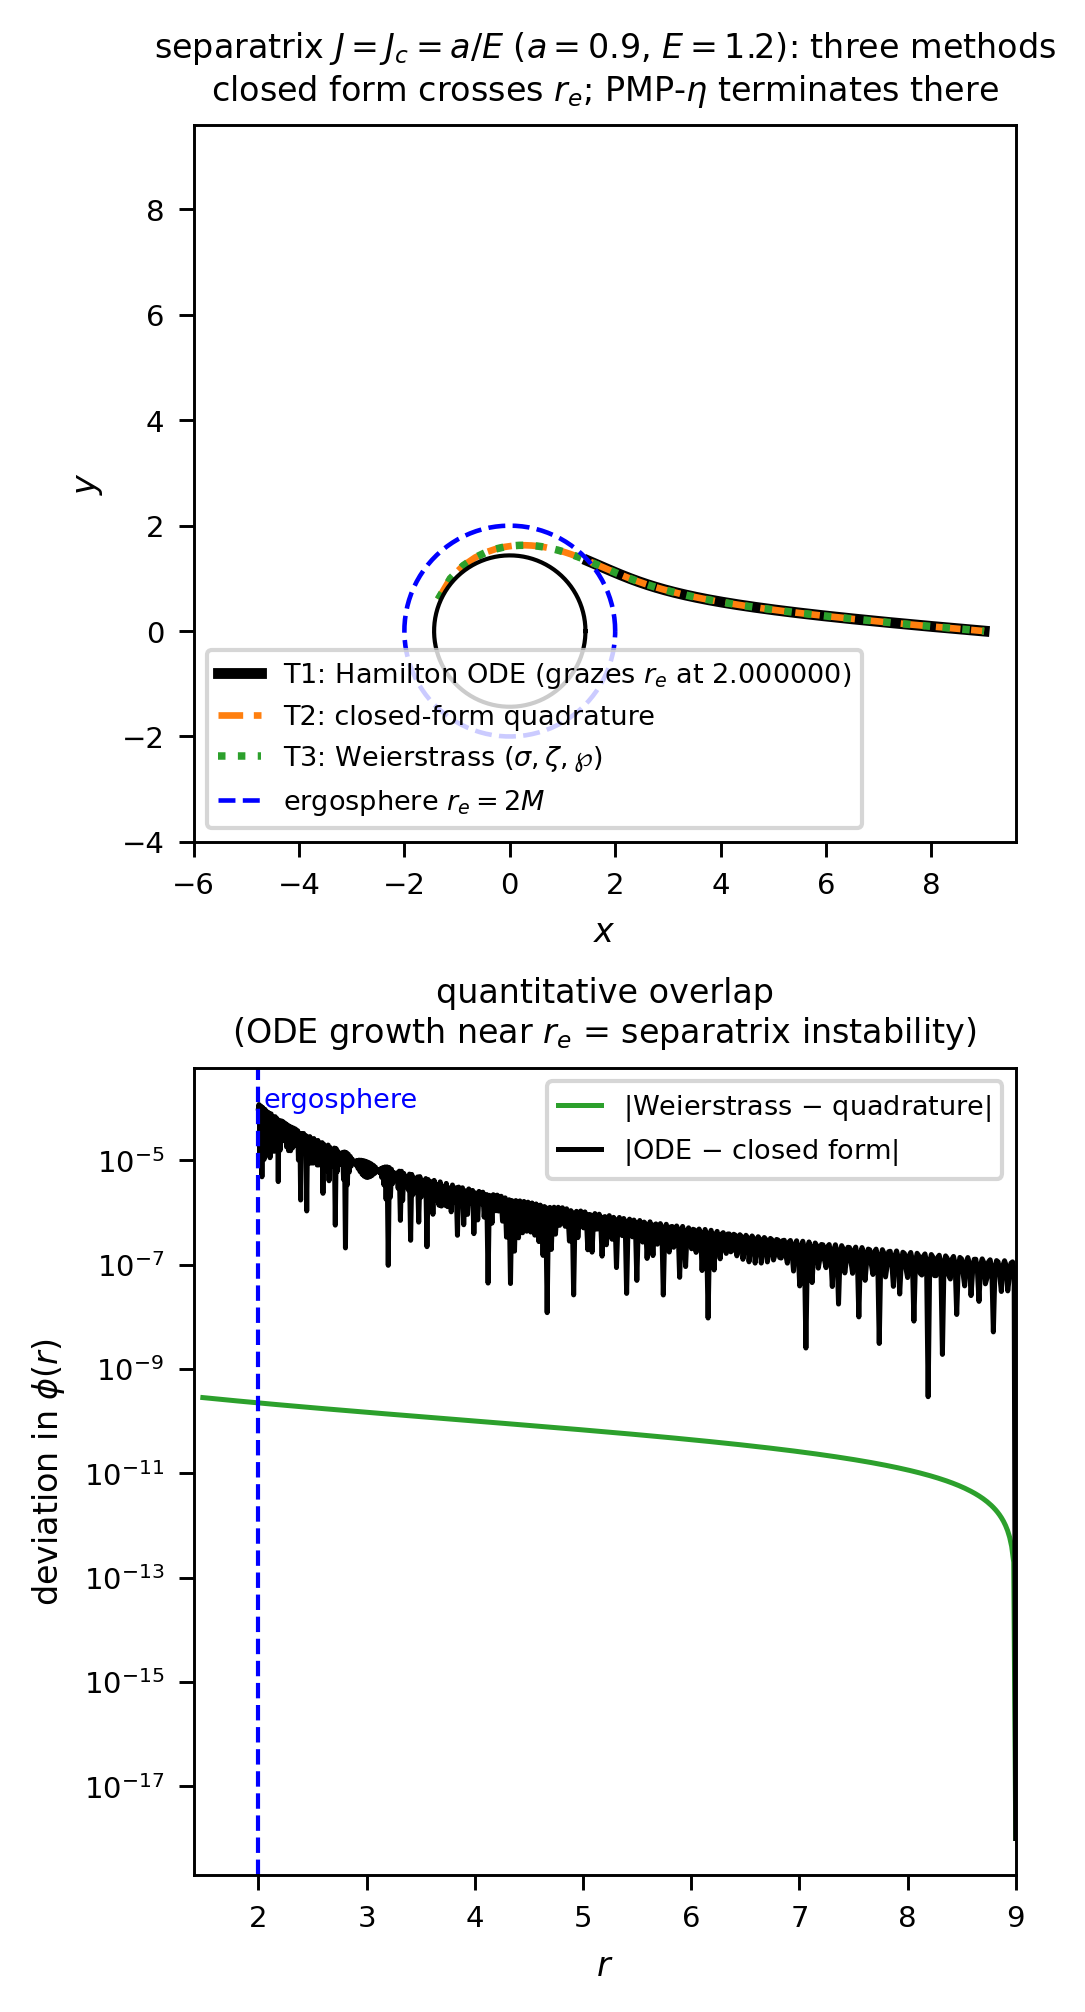
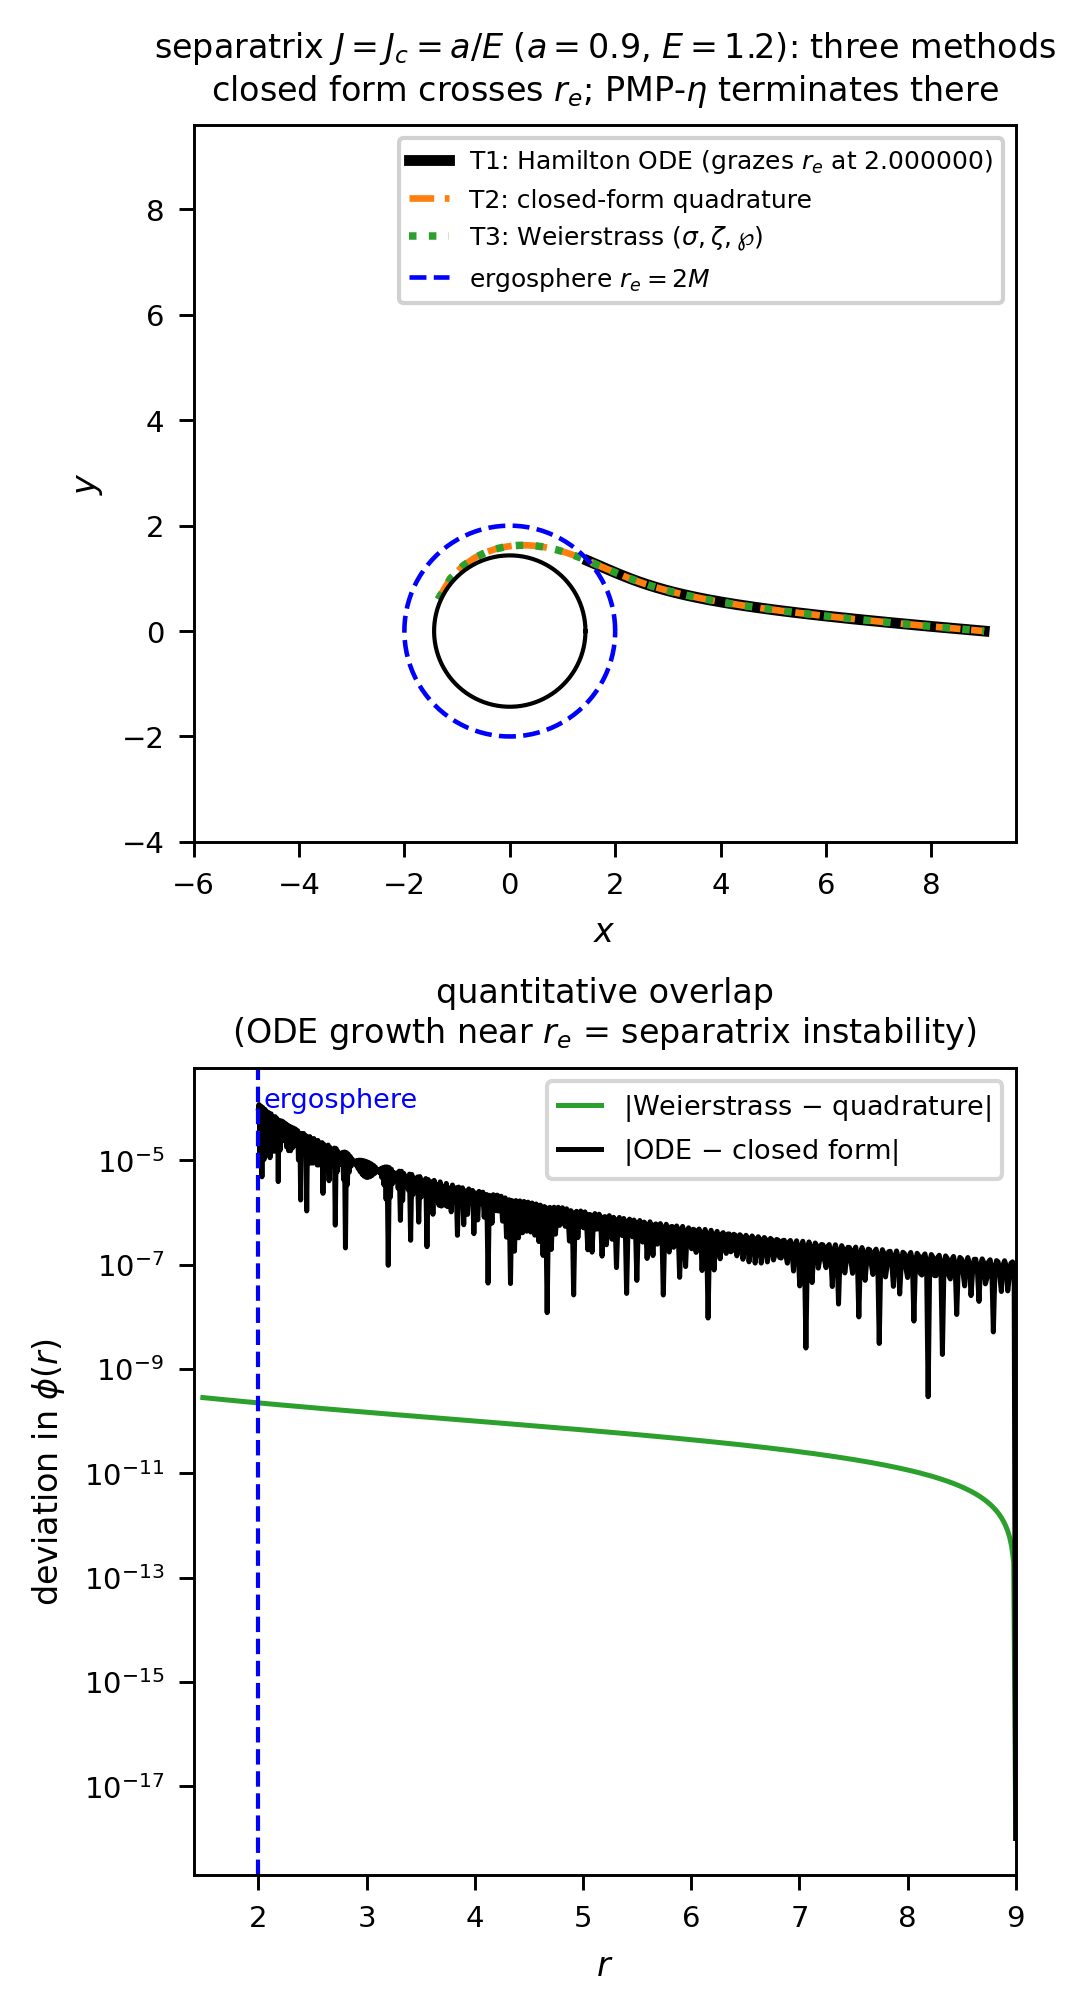
Bump to v0.0.1: layout and readability refinements
- Fig. 9 (separatrix, top panel): move legend from lower-left (over the
  black hole) to upper-right; black hole and trajectories now sit in the
  lower half, legend in the upper half.
- Fix column overflows: split the FLRW degeneracy equation and the
  Weierstrass appendix equations (g2/g3, alpha/lambda, phi(r)) across
  lines; make the data-availability repo name and URL breakable.
- Clarify the uniformizing variable z(r) (Abel map of the turning
  quartic) in the appendix separatrix formula.
- Add \clearpage so appendix figures no longer float into the
  bibliography.
- Add VERSION file.

Changed region(s): [[0.1825, 0.3082, 0.7908, 0.4314], [0.365, 0.0616, 0.9429, 0.1541], [0.7908, 0.339, 0.8212, 0.4006]]

diff --git a/paper/main.tex b/paper/main.tex
@@ -231,8 +231,10 @@ the monotone reparametrization $t(\eta)=\int a\,\dd\eta$ maps critical points to
 critical points, and the $\tau$-cost differs from the $\eta$-cost only by the
 same $\eta$-dependent weight. Hence
 \begin{equation}
-    \arg\min T_t=\arg\min T_\tau=\arg\min T_\eta
-    =\text{comoving straight line}.
+\begin{split}
+    \arg\min T_t&=\arg\min T_\tau=\arg\min T_\eta\\
+    &=\text{comoving straight line}.
+\end{split}
     \label{eq:flrwdegen}
 \end{equation}
 The $t/\tau$ splitting that drives every later result is a gravitational-%
@@ -721,24 +723,32 @@ $J=\Jc$ the doranTau factorization $\Delta-\Jc^2 w=f(r^2+c^2)$, $c=a/E$, makes t
 turning quartic $Q_4=r\big((E^2-1)r+2M\big)(r^2+c^2)$, and the factor $r^2+c^2$
 divides $Q_4$ so that only the horizon poles survive. Writing
 \begin{gather}
-    A=\frac{Ma^2}{2E^2},\qquad B=\frac{a^2(E^2-1)}{12E^2},\qquad
+    A=\frac{Ma^2}{2E^2},\qquad B=\frac{a^2(E^2-1)}{12E^2},\notag\\
     g_2=\frac{a^4(E^2-1)^2}{12E^4}-\frac{a^2M^2}{E^2},\notag\\
     g_3=\frac{a^4\big[36E^2M^2(1-E^2)-a^2(E^2-1)^3\big]}{216E^6},
     \label{eq:wp-invariants}
 \end{gather}
 the uniformizing variable is $z(r)=\wp^{-1}\!\big(A/r+B;g_2,g_3\big)
-=\int_0^r\dd r'/\sqrt{Q_4}$. With $r_\pm=M\pm\sqrt{M^2-a^2}$ the horizons,
+=\int_0^r\dd r'/\sqrt{Q_4}$, the Abel map of the turning quartic $Q_4$: it is the
+elliptic argument in which the radial motion linearizes, so that $r$ is recovered
+by $A/r+B=\wp(z)$ and the physical range $r\in[r_{\min},\infty)$ maps to a
+segment of $z$. With $r_\pm=M\pm\sqrt{M^2-a^2}$ the horizons,
 \begin{equation}
-    \alpha_\pm=\frac{r_\pm\big((E^2-1)r_\pm+2M\big)}{r_\pm-r_\mp},\quad
-    \lambda_\pm=\frac{\alpha_\pm}{\sqrt{Q_4(r_\pm)}},\quad v_\pm=z(r_\pm),
+\begin{aligned}
+    \alpha_\pm&=\frac{r_\pm\big((E^2-1)r_\pm+2M\big)}{r_\pm-r_\mp},\\
+    \lambda_\pm&=\frac{\alpha_\pm}{\sqrt{Q_4(r_\pm)}},\qquad v_\pm=z(r_\pm),
+\end{aligned}
 \end{equation}
 $\wp(v_\pm)=A/r_\pm+B$, and
 $\Lambda_0=(E^2-1)-\alpha_+/r_+-\alpha_-/r_-+2\lambda_+\zeta(v_+)+2\lambda_-\zeta(v_-)$,
-the angle is linear in $z$ plus two Weierstrass-$\sigma$ ratios,
+the angle is linear in the uniformizing variable $z\equiv z(r)$ plus two
+Weierstrass-$\sigma$ ratios,
 \begin{equation}
-    \varphi(r)=\frac{a}{E}\!\left[\Lambda_0\,z
-      +\lambda_+\ln\frac{\sigma(z-v_+)}{\sigma(z+v_+)}
-      +\lambda_-\ln\frac{\sigma(z-v_-)}{\sigma(z+v_-)}\right]+\text{const}.
+\begin{split}
+    \varphi(r)=\frac{a}{E}\Big[&\Lambda_0\,z(r)
+      +\lambda_+\ln\frac{\sigma(z-v_+)}{\sigma(z+v_+)}\\
+      &+\lambda_-\ln\frac{\sigma(z-v_-)}{\sigma(z+v_-)}\Big]+\text{const}.
+\end{split}
     \label{eq:sep-phi}
 \end{equation}
 Because $Q_4(2M)=4M^2(4E^2M^2+a^2)>0$, Eq.~\eqref{eq:sep-phi} is regular
@@ -862,8 +872,7 @@ contours~\eqref{eq:periapsis-root} to a relative $7\times10^{-12}$.
     \label{fig:verifmin}
 \end{figure}
 
-
-
+\clearpage
 
 % ======================================================================
 \begin{acknowledgments}
@@ -878,10 +887,9 @@ for the content of this work.
 \section*{Data availability}
 The complete numerical and symbolic codebase underlying this work is openly
 available under the MIT license in the GitHub repository
-``NonStationaryBrachistochrone''~\cite{Rosignoli2026Code}:
+``NonStationary\-Brachi\-sto\-chrone''~\cite{Rosignoli2026Code}:
 \begin{center}
-\href{https://github.com/ImanetorX98/NonStationaryBrachistochrone}
-{\texttt{github.com/ImanetorX98/NonStationaryBrachistochrone}}.
+\url{https://github.com/ImanetorX98/NonStationaryBrachistochrone}
 \end{center}
 The repository includes the trajectory integrators, the Pontryagin Hamiltonian
 constructions, the Poisson-bracket closure and quasi-invariant scans

diff --git a/KerrMetric/kerr_separatrix_trajectories.py b/KerrMetric/kerr_separatrix_trajectories.py
@@ -225,7 +225,7 @@ ax.set_xlabel('$x$')
 ax.set_ylabel('$y$')
 ax.set_title(f'separatrix $J=J_c=a/E$ ($a={a}$, $E={E}$): three methods\n'
              'closed form crosses $r_e$; PMP-$\\eta$ terminates there')
-ax.legend(loc='lower left')
+ax.legend(loc='upper right', fontsize=6, framealpha=0.9)
 
 axb.semilogy(rg, np.abs(phi3 - phi2) + 1e-18, 'C2-',
              label='|Weierstrass $-$ quadrature|')